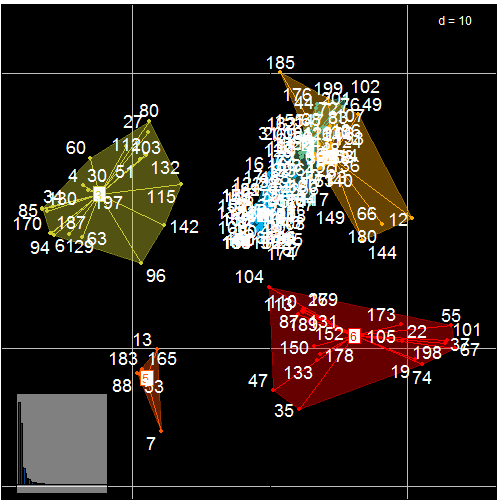
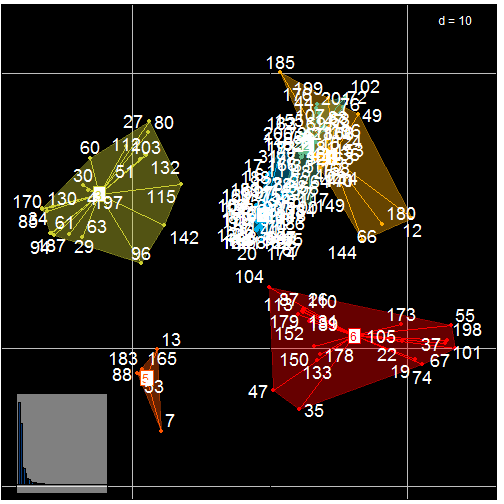
Updating vignette with plotGrovesD3 example

diff --git a/vignettes/treescape.md b/vignettes/treescape.md
@@ -1,7 +1,7 @@
 ---
 title: "Exploration of landscapes of phylogenetic trees"
 author: "Thibaut Jombart, Michelle Kendall"
-date: "2016-03-16"
+date: "2016-03-17"
 output: rmarkdown::html_vignette
 vignette: >
   %\VignetteEngine{knitr::rmarkdown}
@@ -258,6 +258,14 @@ xlab("") + ylab("") + theme_bw(base_family="") # remove axis labels and grey bac
 
 ![plot of chunk woodmicePlots](figs/woodmicePlots-5.png)
 
+```r
+## alternative using plotGrovesD3
+plotGrovesD3(wm.res$pco)
+```
+
+<!--html_preserve--><div id="htmlwidget-9880" style="width:504px;height:504px;" class="scatterD3 html-widget"></div>
+<script type="application/json" data-for="htmlwidget-9880">{"x":{"data":{"x":[-0.994915614079129,-0.613678626917793,2.66670631307031,-13.6081153840016,2.19796507262781,3.60128203945996,-7.9346433024299,-0.601509902833136,-0.994915614079122,-0.601509902833136,-0.607150138418814,10.3943189332891,-8.22061660863031,-0.542706411478826,3.33541847941513,-0.0438280980188251,-0.16462933902331,2.79080622437025,10.5466992537476,-0.611741178555834,3.57629422667166,9.64506059773349,3.87015775914438,-0.926024164827251,-1.21908989674129,2.4723857807866,-8.86243680646928,-1.21908989674129,-14.5730155701834,-13.6024751484159,0.917863183050825,2.27894083741,2.28568544942178,-15.7748658745841,2.14920253942819,-0.790924629423664,12.7908135541976,0.944271832856848,-1.24839432652649,3.98230290310849,-1.01426319128175,2.01968513715778,2.67234654865598,3.60013557723756,-0.360155109563768,3.37184987522406,0.252595301625617,3.36472290920033,6.40461224612179,-0.994699490566317,-9.42122752144957,2.66670631307031,-9.4500778191334,-0.607150138418815,13.1790840072057,1.82079944018017,-1.24928257943979,-0.994915614079121,2.43713839500107,-13.044572686349,-15.9705489873276,-0.913373605366737,-13.6310955663374,3.64770068321681,0.6688659159456,8.1468271893242,13.4934309468058,4.04346690730909,2.2791569609228,-0.580632735597669,2.36612308170806,5.33313046919023,-0.994915614079121,11.0665629950681,-1.00840683218326,4.76538085706121,1.4438114263851,-0.171393662122702,2.02621362565675,-8.75385363504267,-0.858828154723405,-0.330268540830038,3.90067192022295,-0.0730717036886925,-16.5286674300406,-0.994915614079121,2.4723857807866,-9.65081856527717,-0.335908776415716,-0.796564865009344,-0.542706411478826,1.0492923610008,-1.21908989674129,-15.6745883154345,0.0979934237349436,-9.34792446440201,-0.437013152012128,2.27241234891103,-0.176892270892568,0.955121246501658,12.8975581653797,5.51089790555853,-10.4680320213257,-0.0399993481969892,9.52808714143766,3.58911331537531,4.42342442747863,0.04726565910757,-1.25417131433135,2.36112888973579,2.27894083741,-9.02693355729029,2.07898006954061,3.87668624764336,-6.4615827644661,2.03185386124243,1.82035414418588,-0.994915614079122,-1.01426319128175,3.37749011080974,0.199097799331354,-0.172281915035998,-1.00862295569607,4.15243988951517,-1.00840683218326,2.28458107299568,-0.607150138418815,-0.519052641259981,2.08128395756897,-16.5601837313279,2.46688265557635,-9.05280962299188,3.48076661737388,-0.995803866992419,-0.988171002067341,4.03546615887711,-0.994915614079122,-1.32470655220642,-0.989275378493443,3.56866136174658,-0.607150138418815,-7.66836564572728,-0.335908776415717,6.72470221778202,-0.27737989822945,-0.633026204120414,2.84248353506267,0.0979934237349434,2.92888779742133,3.20320883731572,-0.335908776415717,2.87234652407253,4.32578048491479,-1.25417131433135,2.83684329947699,-1.00751857926997,-0.915013358974151,3.57540597375836,-0.989275378493443,-0.707126558298265,-0.712766793883943,2.26633787221916,3.5888971918625,-1.01180587891182,-9.25652460111789,2.33076992578286,-0.165035101165792,3.30290284183796,-0.994699490566317,-16.2186567440298,3.5888971918625,-0.982530766481663,9.52808714143766,-0.606100942970156,2.73656237720091,3.46106473819439,2.27894083741,3.63680350037365,2.4723857807866,8.1468271893242,2.27894083741,-0.995803866992419,-9.25088436553222,0.859657106490925,0.774749830581256,0.04726565910757,-15.8890069786153,0.404970591334761,2.42557261667578,-0.613678626917791,-0.607013028043388,-0.919902093865712,2.28458107299568,-0.607150138418814,-0.765676710838192,4.1467996539295,-13.1809002016393,12.8975581653797,4.26288720150493,2.02621362565675,3.36367420397477],"y":[-1.36296405257431,-1.0143380748759,4.21882824322934,1.85395115102288,4.17637909087139,4.86461034763142,-16.009575686826,-1.02771387775047,-1.36296405257431,-1.02771387775047,-1.02766987185401,-0.50552388611458,-10.0515267421666,-1.07229905286387,4.15752547173998,2.76392139550187,2.59796872098458,4.93883384448699,-10.7625404554933,-2.21247979854658,4.87226502578944,-9.50887087450621,3.32153776588015,-0.842513536381463,-0.716141175163109,-7.16104731132083,5.75437287564331,-0.716141175163109,-1.7069313395939,1.85390714512642,4.8987315359459,3.88353406250903,5.61969323330277,0.344365695407378,-14.4171273048538,-0.501442487250261,-9.6000449103967,1.03726886777004,-0.33393376356846,3.46374535755798,-1.35535338031275,4.91950411344247,4.21878423733287,7.13159940553585,-0.00302341316305923,5.01212399682195,-13.0610240652768,3.77531806014533,7.01232473326826,0.386526915197534,3.75962479695718,4.21882824322933,-11.8666109777134,-1.02766987185401,-8.32290371040569,2.52086549795982,-0.320645972486813,-1.36296405257431,4.62733018857612,3.8619430148942,-1.58401124473219,-1.37092740080123,-1.87858215341395,3.08391000762073,-1.19130284875386,-0.939160305549966,-9.99053252948651,5.96476384086601,5.63302503028087,-1.03141128116272,3.87552670838565,7.5655093012157,-1.36296405257431,-11.1843323318248,0.394093581562642,6.98752111471013,1.37775884921857,1.22975877872164,4.90617231646436,6.55363566239471,-1.1898855504877,0.868592373260222,6.09901634763348,1.2290930557728,0.146376109093674,-1.36296405257431,-7.16104731132083,-11.8099177019773,0.868636379156678,-0.501398481353805,-1.07229905286387,1.43585335420713,-0.716141175163109,-1.76388587914128,-0.23437411826138,-3.78957669060228,0.645071817193465,3.89686585948713,2.27313496228741,1.1554629700066,-9.37652435432995,8.34207063093772,4.70275523659972,-5.51421132484612,-8.2299588005646,4.87798615050598,6.18643823118439,0.0191206331844138,-0.326994001640874,-7.3165426940803,3.88353406250902,4.08158718069937,-7.49629748614467,3.30820596890205,1.9385779426291,4.9061283105679,1.76288229528141,-1.36296405257431,-1.35535338031275,5.0120799909255,-0.010809556298168,1.24304656980329,-1.3553973862092,5.13648704660545,0.394093581562642,3.88349005661257,-1.02766987185401,-1.36622147874601,4.52661553061152,0.167362584229802,-7.16806857752342,4.10252964993904,-10.8783948870456,-1.34967626149267,0.37319511821943,3.41920418834103,-1.36296405257431,-0.871680563819035,-1.36300805847077,3.14939364607734,-1.02766987185401,-1.0051396096495,0.868636379156678,-2.10228430818339,0.0359583960557166,-1.00672740261434,5.89152592638035,-0.23437411826138,0.461240469186376,-9.87333975241743,0.868636379156678,-8.00759724325874,4.51980695910259,-0.326994001640875,5.8915699322768,0.380805790480995,-1.35124757466906,4.88555281687109,-1.36300805847077,-1.18325326640639,-1.18320926050994,5.62730390556433,3.12849518273413,-1.36839184423488,-11.4879553182351,4.29529384801837,-1.92883606503873,4.00946413995936,0.386526915197535,-0.0288756124843535,3.12849518273413,0.373151112322974,-8.2299588005646,-2.21252380444303,4.19946765707952,7.74251598858856,3.88353406250902,-10.4582816896664,-7.16104731132083,-0.939160305549964,3.88353406250903,-1.34967626149267,-11.4879993241316,0.931854402146932,10.0778445455006,0.0191206331844132,-1.59197459295911,1.73932530176124,-7.36117187509016,-1.01433807487591,-1.03473514395306,-1.35759560382313,3.88349005661257,-1.02766987185401,0.202085100647231,5.13653105250191,1.52547532730244,-9.37652435432995,8.19604761262773,4.90617231646436,7.45847251006686],"point_opacity":[1,1,1,1,1,1,1,1,1,1,1,1,1,1,1,1,1,1,1,1,1,1,1,1,1,1,1,1,1,1,1,1,1,1,1,1,1,1,1,1,1,1,1,1,1,1,1,1,1,1,1,1,1,1,1,1,1,1,1,1,1,1,1,1,1,1,1,1,1,1,1,1,1,1,1,1,1,1,1,1,1,1,1,1,1,1,1,1,1,1,1,1,1,1,1,1,1,1,1,1,1,1,1,1,1,1,1,1,1,1,1,1,1,1,1,1,1,1,1,1,1,1,1,1,1,1,1,1,1,1,1,1,1,1,1,1,1,1,1,1,1,1,1,1,1,1,1,1,1,1,1,1,1,1,1,1,1,1,1,1,1,1,1,1,1,1,1,1,1,1,1,1,1,1,1,1,1,1,1,1,1,1,1,1,1,1,1,1,1,1,1,1,1,1,1,1,1,1,1,1,1],"key_var":[1,2,3,4,5,6,7,8,9,10,11,12,13,14,15,16,17,18,19,20,21,22,23,24,25,26,27,28,29,30,31,32,33,34,35,36,37,38,39,40,41,42,43,44,45,46,47,48,49,50,51,52,53,54,55,56,57,58,59,60,61,62,63,64,65,66,67,68,69,70,71,72,73,74,75,76,77,78,79,80,81,82,83,84,85,86,87,88,89,90,91,92,93,94,95,96,97,98,99,100,101,102,103,104,105,106,107,108,109,110,111,112,113,114,115,116,117,118,119,120,121,122,123,124,125,126,127,128,129,130,131,132,133,134,135,136,137,138,139,140,141,142,143,144,145,146,147,148,149,150,151,152,153,154,155,156,157,158,159,160,161,162,163,164,165,166,167,168,169,170,171,172,173,174,175,176,177,178,179,180,181,182,183,184,185,186,187,188,189,190,191,192,193,194,195,196,197,198,199,200,201]},"settings":{"labels_size":10,"point_size":64,"xlab":"Axis 1","ylab":"Axis 2","has_labels":false,"col_var":null,"col_lab":"groups","colors":null,"ellipses":false,"ellipses_data":[],"symbol_var":null,"symbol_lab":"symbol_var","size_var":null,"size_range":[10,300],"size_lab":"NULL","key_var":null,"type_var":null,"unit_circle":false,"has_color_var":false,"has_symbol_var":false,"has_size_var":false,"has_legend":false,"has_tooltips":true,"tooltip_text":null,"has_custom_tooltips":false,"fixed":false,"legend_width":150,"html_id":"scatterD3-KXCINBWK","xlim":null,"ylim":null,"lasso":false,"lasso_callback":null,"dom_id_reset_zoom":"scatterD3-reset-zoom","dom_id_svg_export":"scatterD3-svg-export","dom_id_lasso_toggle":"scatterD3-lasso-toggle","transitions":false,"hashes":[]}},"evals":[],"jsHooks":[]}</script><!--/html_preserve-->
+
 
 Note that alternatively, the function `multiDist` simply performs the pairwise comparison of trees and outputs a distance matrix. 
 This function may be preferable for large datasets, and when principal co-ordinate analysis is not required. 
@@ -441,7 +449,7 @@ treeVec(tree)
 ```
 
 ```
-##  [1] 1 0 2 0 3 0 1 0 1 0 1 0 0 2 0 1 1 1 1 1 1
+##  [1] 0 0 1 1 1 1 0 0 0 0 0 0 3 2 2 1 1 1 1 1 1
 ```
 
 ```r
@@ -450,9 +458,9 @@ treeVec(tree,0.5)
 ```
 
 ```
-##  [1] 0.7296 0.0000 1.6272 0.0000 2.3518 0.0000 0.7296 0.0000 0.7296 0.0000
-## [11] 0.5971 0.0000 0.0000 1.6272 0.0000 0.8511 0.8400 0.5533 0.5377 0.8740
-## [21] 0.6391
+##  [1] 0.0000 0.0000 0.7979 0.7979 0.7979 0.5205 0.0000 0.0000 0.0000 0.0000
+## [11] 0.0000 0.0000 2.2933 1.6387 1.6387 0.6866 0.7541 0.7458 0.6312 0.6345
+## [21] 0.9824
 ```
 
 ```r
@@ -463,9 +471,9 @@ vecAsFunction(0.5)
 ```
 
 ```
-##  [1] 0.7296 0.0000 1.6272 0.0000 2.3518 0.0000 0.7296 0.0000 0.7296 0.0000
-## [11] 0.5971 0.0000 0.0000 1.6272 0.0000 0.8511 0.8400 0.5533 0.5377 0.8740
-## [21] 0.6391
+##  [1] 0.0000 0.0000 0.7979 0.7979 0.7979 0.5205 0.0000 0.0000 0.0000 0.0000
+## [11] 0.0000 0.0000 2.2933 1.6387 1.6387 0.6866 0.7541 0.7458 0.6312 0.6345
+## [21] 0.9824
 ```
 
 The metric -- the distance between two trees -- is the Euclidean distance between these vectors:
@@ -485,7 +493,7 @@ treeDist(tree_a,tree_b)
 ```
 
 ```
-## [1] 5.099
+## [1] 4.123
 ```
 
 ```r
@@ -494,7 +502,7 @@ treeDist(tree_a,tree_b,1)
 ```
 
 ```
-## [1] 3.057
+## [1] 3.794
 ```
 
 

diff --git a/README.md b/README.md
@@ -249,6 +249,14 @@ xlab("") + ylab("") + theme_bw(base_family="") # remove axis labels and grey bac
 
 ![plot of chunk woodmicePlots](vignettes/figs/woodmicePlots-5.png)
 
+```r
+## alternative using plotGrovesD3
+plotGrovesD3(wm.res$pco)
+```
+
+<!--html_preserve--><div id="htmlwidget-9880" style="width:504px;height:504px;" class="scatterD3 html-widget"></div>
+<script type="application/json" data-for="htmlwidget-9880">{"x":{"data":{"x":[-0.994915614079129,-0.613678626917793,2.66670631307031,-13.6081153840016,2.19796507262781,3.60128203945996,-7.9346433024299,-0.601509902833136,-0.994915614079122,-0.601509902833136,-0.607150138418814,10.3943189332891,-8.22061660863031,-0.542706411478826,3.33541847941513,-0.0438280980188251,-0.16462933902331,2.79080622437025,10.5466992537476,-0.611741178555834,3.57629422667166,9.64506059773349,3.87015775914438,-0.926024164827251,-1.21908989674129,2.4723857807866,-8.86243680646928,-1.21908989674129,-14.5730155701834,-13.6024751484159,0.917863183050825,2.27894083741,2.28568544942178,-15.7748658745841,2.14920253942819,-0.790924629423664,12.7908135541976,0.944271832856848,-1.24839432652649,3.98230290310849,-1.01426319128175,2.01968513715778,2.67234654865598,3.60013557723756,-0.360155109563768,3.37184987522406,0.252595301625617,3.36472290920033,6.40461224612179,-0.994699490566317,-9.42122752144957,2.66670631307031,-9.4500778191334,-0.607150138418815,13.1790840072057,1.82079944018017,-1.24928257943979,-0.994915614079121,2.43713839500107,-13.044572686349,-15.9705489873276,-0.913373605366737,-13.6310955663374,3.64770068321681,0.6688659159456,8.1468271893242,13.4934309468058,4.04346690730909,2.2791569609228,-0.580632735597669,2.36612308170806,5.33313046919023,-0.994915614079121,11.0665629950681,-1.00840683218326,4.76538085706121,1.4438114263851,-0.171393662122702,2.02621362565675,-8.75385363504267,-0.858828154723405,-0.330268540830038,3.90067192022295,-0.0730717036886925,-16.5286674300406,-0.994915614079121,2.4723857807866,-9.65081856527717,-0.335908776415716,-0.796564865009344,-0.542706411478826,1.0492923610008,-1.21908989674129,-15.6745883154345,0.0979934237349436,-9.34792446440201,-0.437013152012128,2.27241234891103,-0.176892270892568,0.955121246501658,12.8975581653797,5.51089790555853,-10.4680320213257,-0.0399993481969892,9.52808714143766,3.58911331537531,4.42342442747863,0.04726565910757,-1.25417131433135,2.36112888973579,2.27894083741,-9.02693355729029,2.07898006954061,3.87668624764336,-6.4615827644661,2.03185386124243,1.82035414418588,-0.994915614079122,-1.01426319128175,3.37749011080974,0.199097799331354,-0.172281915035998,-1.00862295569607,4.15243988951517,-1.00840683218326,2.28458107299568,-0.607150138418815,-0.519052641259981,2.08128395756897,-16.5601837313279,2.46688265557635,-9.05280962299188,3.48076661737388,-0.995803866992419,-0.988171002067341,4.03546615887711,-0.994915614079122,-1.32470655220642,-0.989275378493443,3.56866136174658,-0.607150138418815,-7.66836564572728,-0.335908776415717,6.72470221778202,-0.27737989822945,-0.633026204120414,2.84248353506267,0.0979934237349434,2.92888779742133,3.20320883731572,-0.335908776415717,2.87234652407253,4.32578048491479,-1.25417131433135,2.83684329947699,-1.00751857926997,-0.915013358974151,3.57540597375836,-0.989275378493443,-0.707126558298265,-0.712766793883943,2.26633787221916,3.5888971918625,-1.01180587891182,-9.25652460111789,2.33076992578286,-0.165035101165792,3.30290284183796,-0.994699490566317,-16.2186567440298,3.5888971918625,-0.982530766481663,9.52808714143766,-0.606100942970156,2.73656237720091,3.46106473819439,2.27894083741,3.63680350037365,2.4723857807866,8.1468271893242,2.27894083741,-0.995803866992419,-9.25088436553222,0.859657106490925,0.774749830581256,0.04726565910757,-15.8890069786153,0.404970591334761,2.42557261667578,-0.613678626917791,-0.607013028043388,-0.919902093865712,2.28458107299568,-0.607150138418814,-0.765676710838192,4.1467996539295,-13.1809002016393,12.8975581653797,4.26288720150493,2.02621362565675,3.36367420397477],"y":[-1.36296405257431,-1.0143380748759,4.21882824322934,1.85395115102288,4.17637909087139,4.86461034763142,-16.009575686826,-1.02771387775047,-1.36296405257431,-1.02771387775047,-1.02766987185401,-0.50552388611458,-10.0515267421666,-1.07229905286387,4.15752547173998,2.76392139550187,2.59796872098458,4.93883384448699,-10.7625404554933,-2.21247979854658,4.87226502578944,-9.50887087450621,3.32153776588015,-0.842513536381463,-0.716141175163109,-7.16104731132083,5.75437287564331,-0.716141175163109,-1.7069313395939,1.85390714512642,4.8987315359459,3.88353406250903,5.61969323330277,0.344365695407378,-14.4171273048538,-0.501442487250261,-9.6000449103967,1.03726886777004,-0.33393376356846,3.46374535755798,-1.35535338031275,4.91950411344247,4.21878423733287,7.13159940553585,-0.00302341316305923,5.01212399682195,-13.0610240652768,3.77531806014533,7.01232473326826,0.386526915197534,3.75962479695718,4.21882824322933,-11.8666109777134,-1.02766987185401,-8.32290371040569,2.52086549795982,-0.320645972486813,-1.36296405257431,4.62733018857612,3.8619430148942,-1.58401124473219,-1.37092740080123,-1.87858215341395,3.08391000762073,-1.19130284875386,-0.939160305549966,-9.99053252948651,5.96476384086601,5.63302503028087,-1.03141128116272,3.87552670838565,7.5655093012157,-1.36296405257431,-11.1843323318248,0.394093581562642,6.98752111471013,1.37775884921857,1.22975877872164,4.90617231646436,6.55363566239471,-1.1898855504877,0.868592373260222,6.09901634763348,1.2290930557728,0.146376109093674,-1.36296405257431,-7.16104731132083,-11.8099177019773,0.868636379156678,-0.501398481353805,-1.07229905286387,1.43585335420713,-0.716141175163109,-1.76388587914128,-0.23437411826138,-3.78957669060228,0.645071817193465,3.89686585948713,2.27313496228741,1.1554629700066,-9.37652435432995,8.34207063093772,4.70275523659972,-5.51421132484612,-8.2299588005646,4.87798615050598,6.18643823118439,0.0191206331844138,-0.326994001640874,-7.3165426940803,3.88353406250902,4.08158718069937,-7.49629748614467,3.30820596890205,1.9385779426291,4.9061283105679,1.76288229528141,-1.36296405257431,-1.35535338031275,5.0120799909255,-0.010809556298168,1.24304656980329,-1.3553973862092,5.13648704660545,0.394093581562642,3.88349005661257,-1.02766987185401,-1.36622147874601,4.52661553061152,0.167362584229802,-7.16806857752342,4.10252964993904,-10.8783948870456,-1.34967626149267,0.37319511821943,3.41920418834103,-1.36296405257431,-0.871680563819035,-1.36300805847077,3.14939364607734,-1.02766987185401,-1.0051396096495,0.868636379156678,-2.10228430818339,0.0359583960557166,-1.00672740261434,5.89152592638035,-0.23437411826138,0.461240469186376,-9.87333975241743,0.868636379156678,-8.00759724325874,4.51980695910259,-0.326994001640875,5.8915699322768,0.380805790480995,-1.35124757466906,4.88555281687109,-1.36300805847077,-1.18325326640639,-1.18320926050994,5.62730390556433,3.12849518273413,-1.36839184423488,-11.4879553182351,4.29529384801837,-1.92883606503873,4.00946413995936,0.386526915197535,-0.0288756124843535,3.12849518273413,0.373151112322974,-8.2299588005646,-2.21252380444303,4.19946765707952,7.74251598858856,3.88353406250902,-10.4582816896664,-7.16104731132083,-0.939160305549964,3.88353406250903,-1.34967626149267,-11.4879993241316,0.931854402146932,10.0778445455006,0.0191206331844132,-1.59197459295911,1.73932530176124,-7.36117187509016,-1.01433807487591,-1.03473514395306,-1.35759560382313,3.88349005661257,-1.02766987185401,0.202085100647231,5.13653105250191,1.52547532730244,-9.37652435432995,8.19604761262773,4.90617231646436,7.45847251006686],"point_opacity":[1,1,1,1,1,1,1,1,1,1,1,1,1,1,1,1,1,1,1,1,1,1,1,1,1,1,1,1,1,1,1,1,1,1,1,1,1,1,1,1,1,1,1,1,1,1,1,1,1,1,1,1,1,1,1,1,1,1,1,1,1,1,1,1,1,1,1,1,1,1,1,1,1,1,1,1,1,1,1,1,1,1,1,1,1,1,1,1,1,1,1,1,1,1,1,1,1,1,1,1,1,1,1,1,1,1,1,1,1,1,1,1,1,1,1,1,1,1,1,1,1,1,1,1,1,1,1,1,1,1,1,1,1,1,1,1,1,1,1,1,1,1,1,1,1,1,1,1,1,1,1,1,1,1,1,1,1,1,1,1,1,1,1,1,1,1,1,1,1,1,1,1,1,1,1,1,1,1,1,1,1,1,1,1,1,1,1,1,1,1,1,1,1,1,1,1,1,1,1,1,1],"key_var":[1,2,3,4,5,6,7,8,9,10,11,12,13,14,15,16,17,18,19,20,21,22,23,24,25,26,27,28,29,30,31,32,33,34,35,36,37,38,39,40,41,42,43,44,45,46,47,48,49,50,51,52,53,54,55,56,57,58,59,60,61,62,63,64,65,66,67,68,69,70,71,72,73,74,75,76,77,78,79,80,81,82,83,84,85,86,87,88,89,90,91,92,93,94,95,96,97,98,99,100,101,102,103,104,105,106,107,108,109,110,111,112,113,114,115,116,117,118,119,120,121,122,123,124,125,126,127,128,129,130,131,132,133,134,135,136,137,138,139,140,141,142,143,144,145,146,147,148,149,150,151,152,153,154,155,156,157,158,159,160,161,162,163,164,165,166,167,168,169,170,171,172,173,174,175,176,177,178,179,180,181,182,183,184,185,186,187,188,189,190,191,192,193,194,195,196,197,198,199,200,201]},"settings":{"labels_size":10,"point_size":64,"xlab":"Axis 1","ylab":"Axis 2","has_labels":false,"col_var":null,"col_lab":"groups","colors":null,"ellipses":false,"ellipses_data":[],"symbol_var":null,"symbol_lab":"symbol_var","size_var":null,"size_range":[10,300],"size_lab":"NULL","key_var":null,"type_var":null,"unit_circle":false,"has_color_var":false,"has_symbol_var":false,"has_size_var":false,"has_legend":false,"has_tooltips":true,"tooltip_text":null,"has_custom_tooltips":false,"fixed":false,"legend_width":150,"html_id":"scatterD3-KXCINBWK","xlim":null,"ylim":null,"lasso":false,"lasso_callback":null,"dom_id_reset_zoom":"scatterD3-reset-zoom","dom_id_svg_export":"scatterD3-svg-export","dom_id_lasso_toggle":"scatterD3-lasso-toggle","transitions":false,"hashes":[]}},"evals":[],"jsHooks":[]}</script><!--/html_preserve-->
+
 
 Note that alternatively, the function `multiDist` simply performs the pairwise comparison of trees and outputs a distance matrix. 
 This function may be preferable for large datasets, and when principal co-ordinate analysis is not required. 
@@ -430,7 +438,7 @@ treeVec(tree)
 ```
 
 ```
-##  [1] 1 0 2 0 3 0 1 0 1 0 1 0 0 2 0 1 1 1 1 1 1
+##  [1] 0 0 1 1 1 1 0 0 0 0 0 0 3 2 2 1 1 1 1 1 1
 ```
 
 ```r
@@ -439,9 +447,9 @@ treeVec(tree,0.5)
 ```
 
 ```
-##  [1] 0.7296 0.0000 1.6272 0.0000 2.3518 0.0000 0.7296 0.0000 0.7296 0.0000
-## [11] 0.5971 0.0000 0.0000 1.6272 0.0000 0.8511 0.8400 0.5533 0.5377 0.8740
-## [21] 0.6391
+##  [1] 0.0000 0.0000 0.7979 0.7979 0.7979 0.5205 0.0000 0.0000 0.0000 0.0000
+## [11] 0.0000 0.0000 2.2933 1.6387 1.6387 0.6866 0.7541 0.7458 0.6312 0.6345
+## [21] 0.9824
 ```
 
 ```r
@@ -452,9 +460,9 @@ vecAsFunction(0.5)
 ```
 
 ```
-##  [1] 0.7296 0.0000 1.6272 0.0000 2.3518 0.0000 0.7296 0.0000 0.7296 0.0000
-## [11] 0.5971 0.0000 0.0000 1.6272 0.0000 0.8511 0.8400 0.5533 0.5377 0.8740
-## [21] 0.6391
+##  [1] 0.0000 0.0000 0.7979 0.7979 0.7979 0.5205 0.0000 0.0000 0.0000 0.0000
+## [11] 0.0000 0.0000 2.2933 1.6387 1.6387 0.6866 0.7541 0.7458 0.6312 0.6345
+## [21] 0.9824
 ```
 
 The metric -- the distance between two trees -- is the Euclidean distance between these vectors:
@@ -474,7 +482,7 @@ treeDist(tree_a,tree_b)
 ```
 
 ```
-## [1] 5.099
+## [1] 4.123
 ```
 
 ```r
@@ -483,7 +491,7 @@ treeDist(tree_a,tree_b,1)
 ```
 
 ```
-## [1] 3.057
+## [1] 3.794
 ```
 
 
